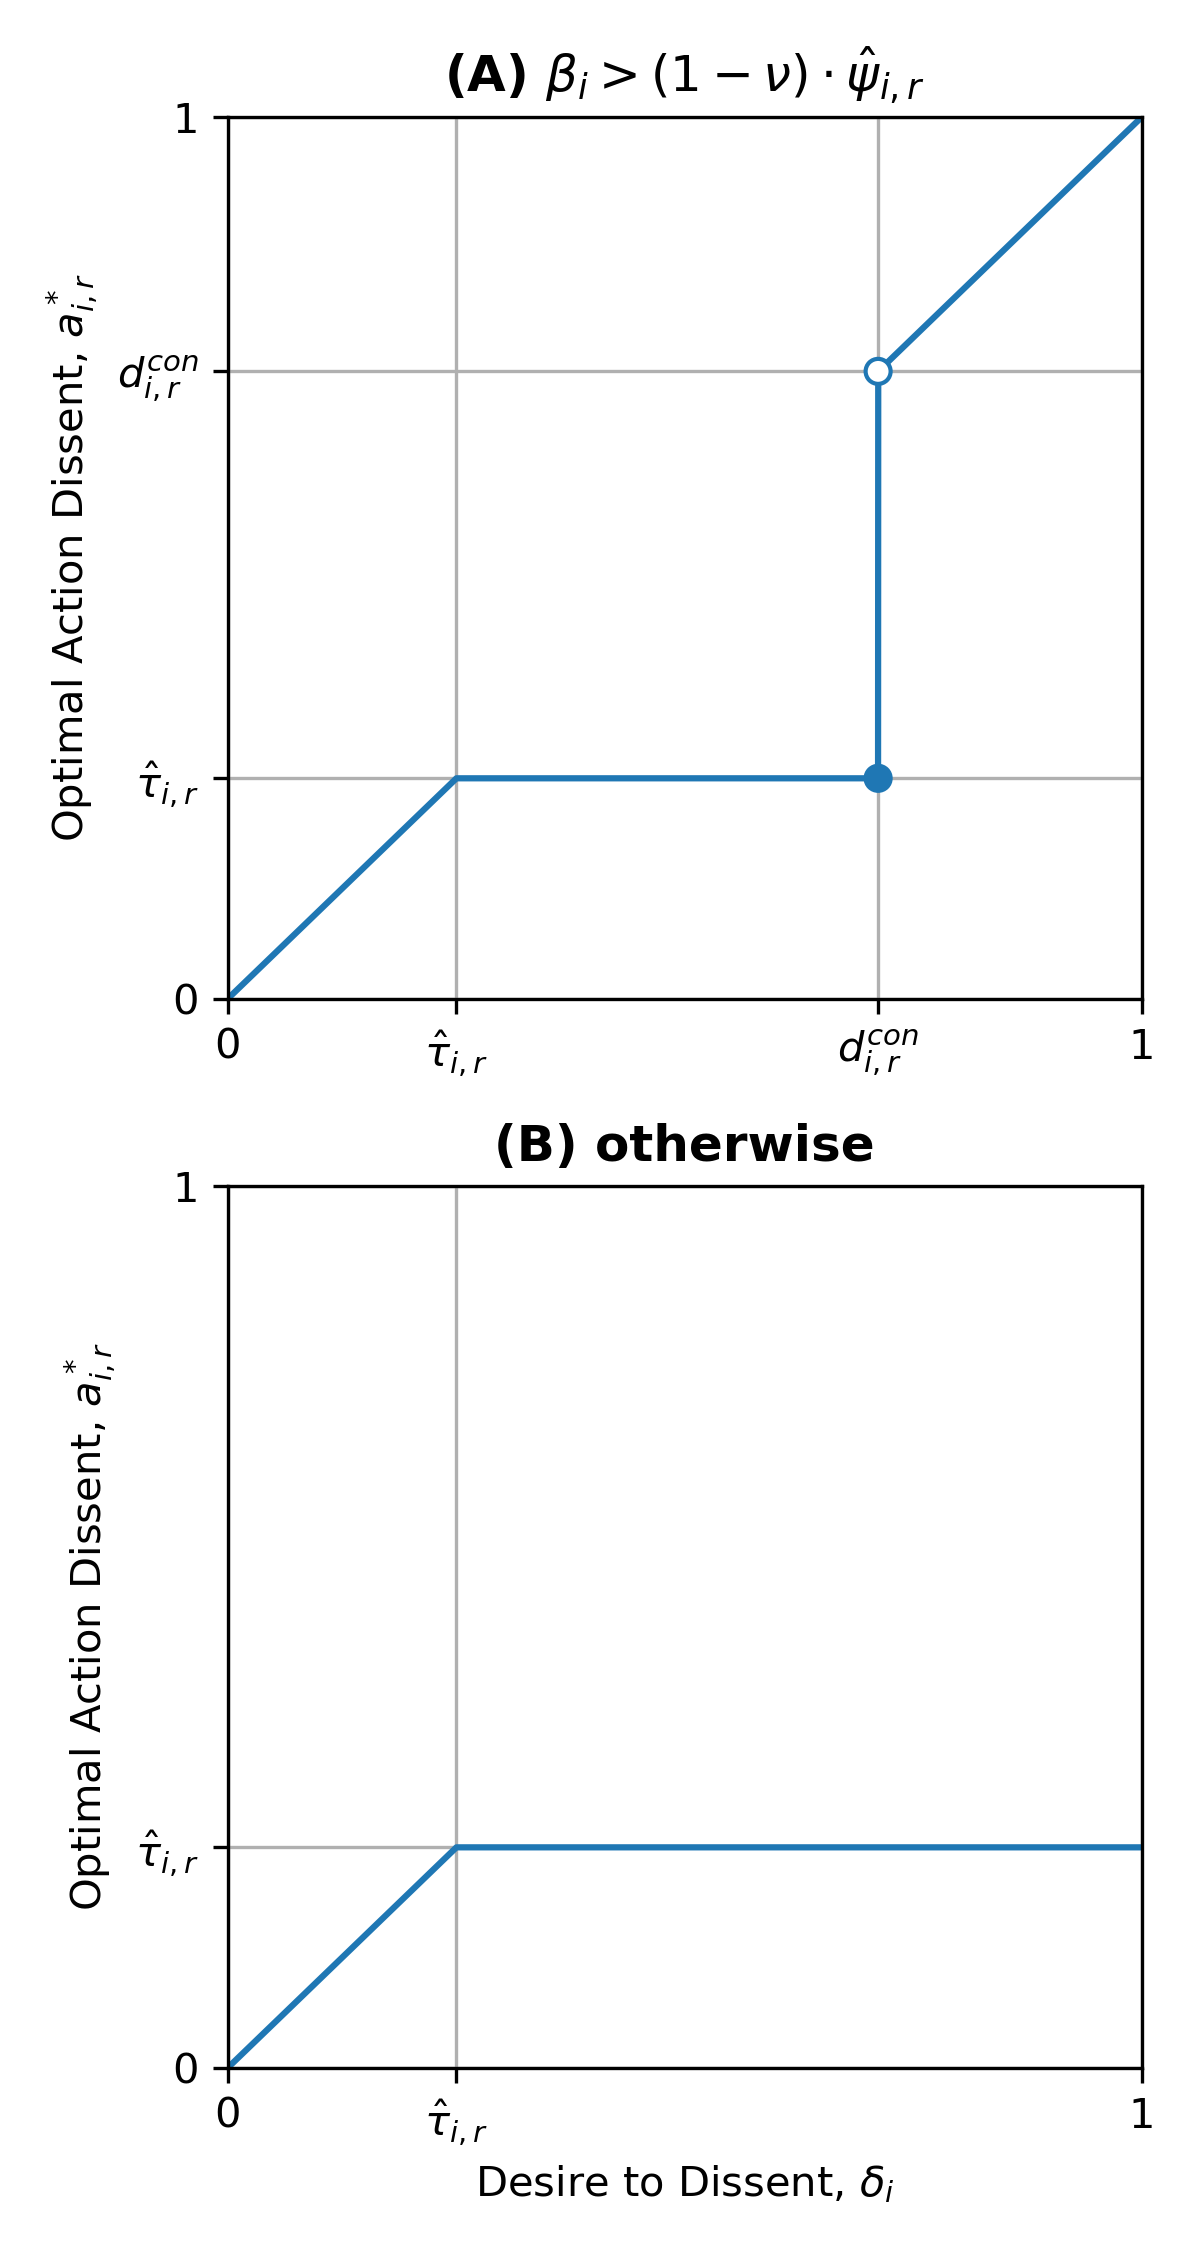
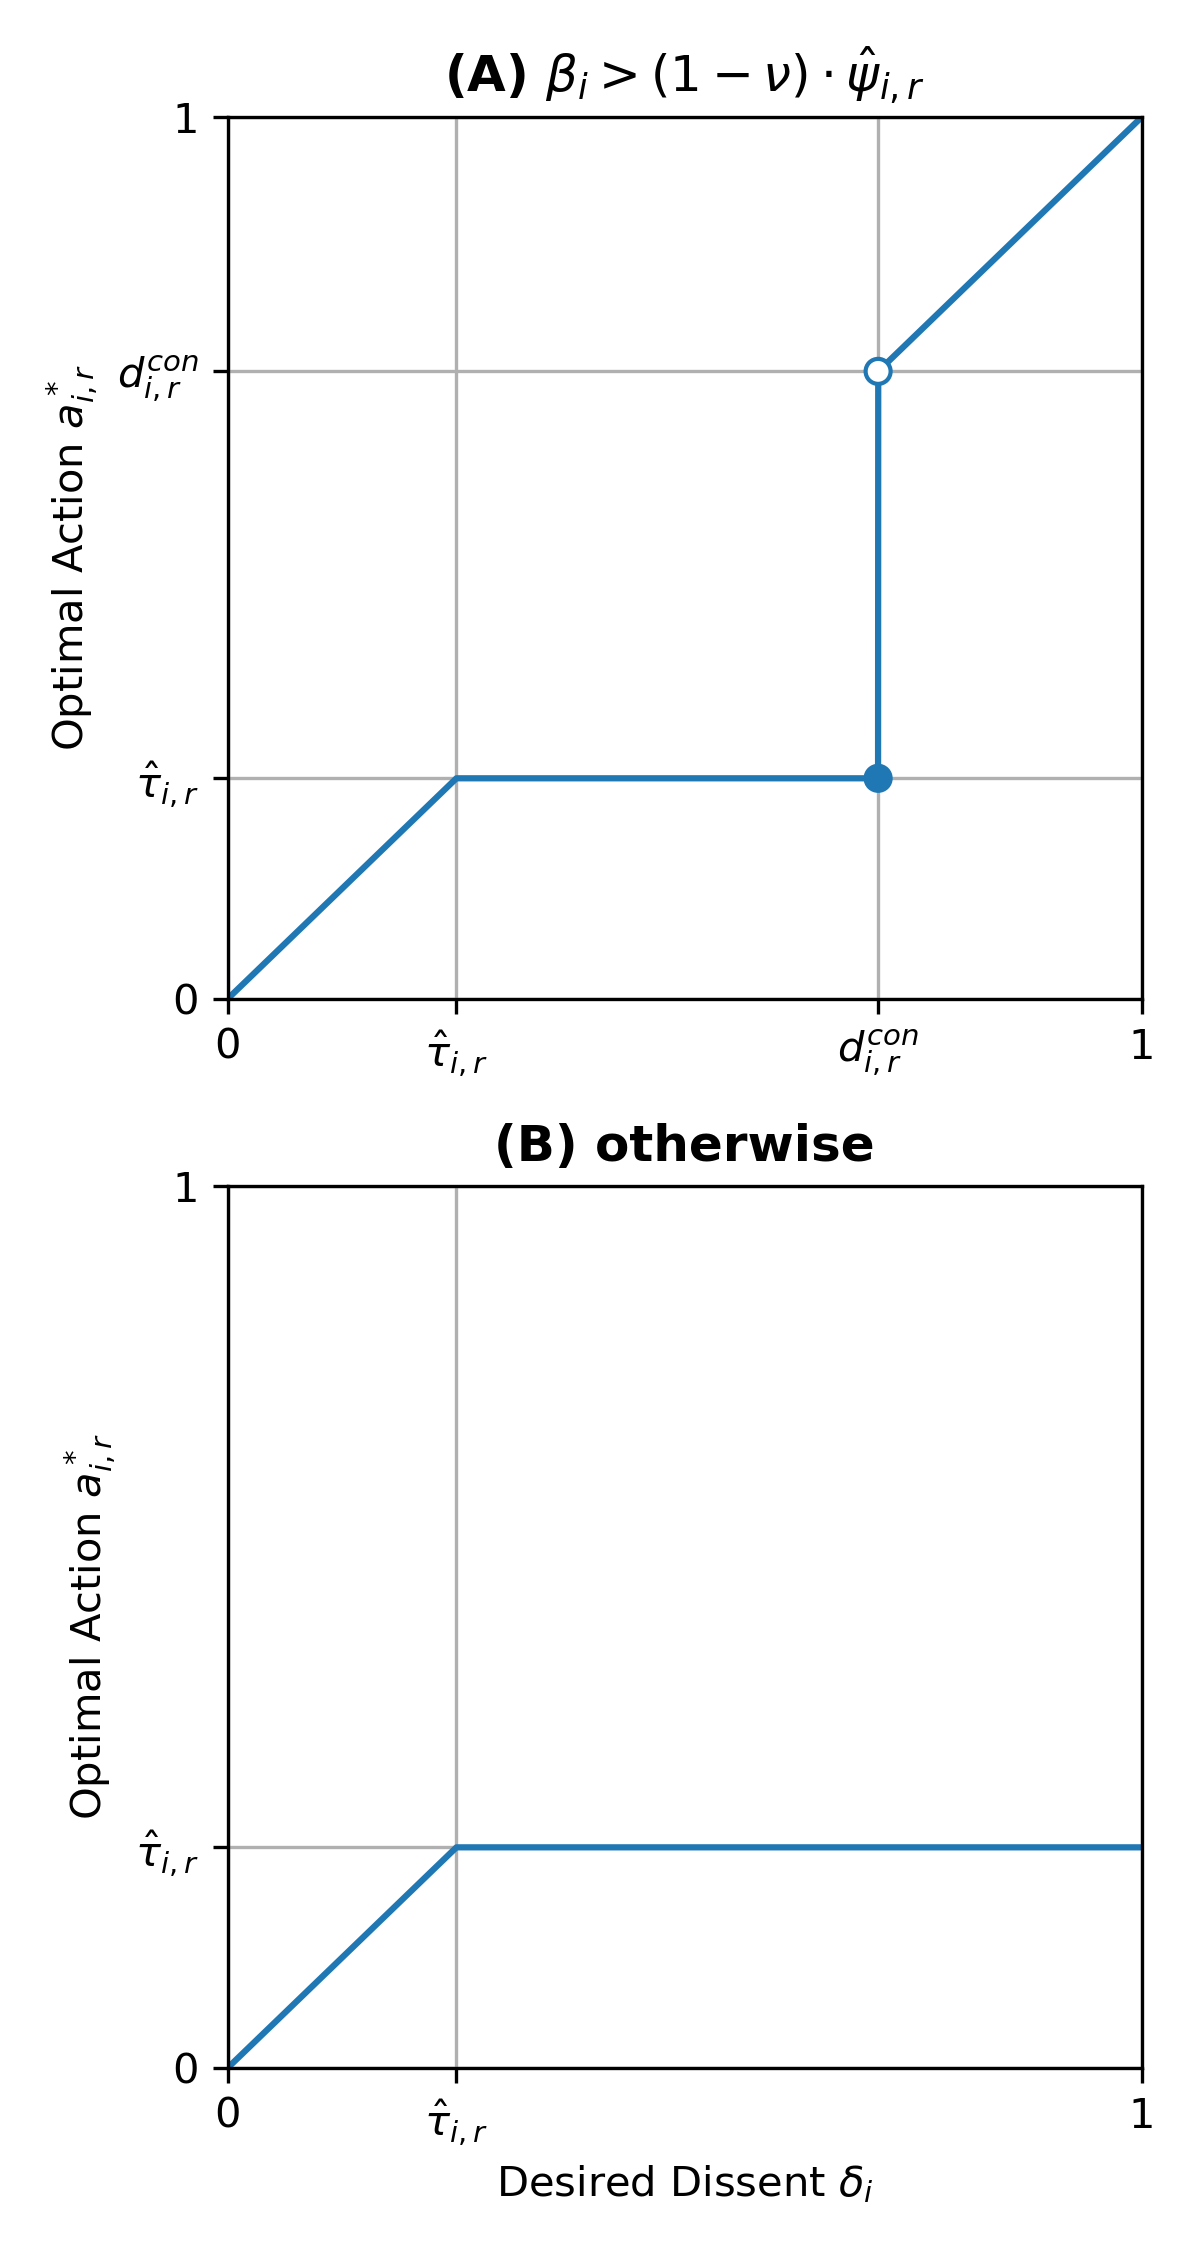
Transposed the phase diagram figure for easier interpretation, plus minor label updates

Changed region(s): [[0.0308, 0.1244, 0.0925, 0.3733], [0.4008, 0.9644, 0.74, 0.9956], [0.0617, 0.5911, 0.0925, 0.84]]

diff --git a/code/opt_action.py b/code/opt_action.py
@@ -3,7 +3,7 @@
 # Authors:  Joshua J. Daymude (jdaymude@asu.edu).
 
 """
-opt_action: Calculates and plots an individual's optimal action dissent and
+opt_action: Calculates and plots an individual's optimal action and
 corresponding utility as a function of their own desired dissent and boldness
 and noisy estimates of the authority's tolerance and severity.
 """
@@ -13,11 +13,39 @@ import numpy as np
 import os.path as osp
 
 
+def dcon(beta, nu, tau, psi):
+    """
+    Computes the critical point between (full) self-censorship and defiance
+    under constant punishment.
+
+    :param beta: the individual's float boldness (> 0)
+    :param nu: the authority's float surveillance (in [0,1])
+    :param tau: the authority's float tolerance (in [0,1])
+    :param psi: the authority's float punishment severity (> 0)
+    :returns: the float critical point for constant punishment
+    """
+    return (beta * tau + nu * psi) / (beta - (1 - nu) * psi)
+
+
+def dlin(beta, nu, tau, psi):
+    """
+    Computes the critical point between self-censorship and defiance as well as
+    the level of self-censorship enacted under linear punishment.
+
+    :param beta: the individual's float boldness (> 0)
+    :param nu: the authority's float surveillance (in [0,1])
+    :param tau: the authority's float tolerance (in [0,1])
+    :param psi: the authority's float punishment severity (> 0)
+    :returns: the float critical point for linear punishment
+    """
+    return (tau + (beta - nu * psi) / ((1 - nu) * psi)) / 2 if nu < 1 else 0
+
+
 def opt_action(delta, beta, nu, pi, tau, psi):
     """
-    Computes an individual's optimal action dissent as a function of their
-    parameters, the authority's parameters, and their noisy estimates of the
-    authority's tolerance and severity.
+    Computes an individual's optimal action as a function of their parameters,
+    the authority's parameters, and their noisy estimates of the authority's
+    tolerance and severity.
 
     :param delta: the individual's float desire to dissent (in [0,1])
     :param beta: the individual's float boldness (> 0)
@@ -25,32 +53,32 @@ def opt_action(delta, beta, nu, pi, tau, psi):
     :param pi: 'constant' or 'linear' punishment
     :param tau: the authority's float tolerance (in [0,1])
     :param psi: the authority's float punishment severity (> 0)
-    :returns: the individual's float optimal action dissent (in [0,delta])
+    :returns: the individual's float optimal action (in [0,delta])
     """
     assert pi in ['constant', 'linear'], f'ERROR: Unrecognized punishment function \"{pi}\"'
 
     if pi == 'constant':
         # Compliant/defiant individuals act = desire; the rest self-censor.
-        dcon = (beta * tau + nu * psi) / (beta - (1 - nu) * psi)
-        if delta <= tau or (beta > (1 - nu) * psi and delta > dcon):
+        d = dcon(beta, nu, tau, psi)
+        if delta <= tau or (beta > (1 - nu) * psi and delta > d):
             return delta
         else:
             return tau
     elif pi == 'linear':
         # If the authority's surveillance is perfect, we simply compare the
         # individual's boldness to the authority's severity.
-        dlin = (tau + (beta - nu * psi) / ((1 - nu) * psi)) / 2 if nu < 1 else 0
-        if delta <= tau or (nu == 1 and beta >= psi) or (nu < 1 and delta <= dlin):
+        d = dlin(beta, nu, tau, psi)
+        if delta <= tau or (nu == 1 and beta >= psi) or (nu < 1 and delta <= d):
             return delta
-        elif (nu == 1 and beta < psi) or (nu < 1 and tau >= dlin):
+        elif (nu == 1 and beta < psi) or (nu < 1 and tau >= d):
             return tau
         else:
-            return dlin
+            return d
 
 
 def plot_opt_action(ax, beta, nu, pi, tau, psi, color='tab:blue'):
     """
-    Plot an individual's optimal action dissent vs. their desired dissent.
+    Plot an individual's optimal action vs. their desired dissent.
 
     :param ax: a matplotlib.Axes object to plot on
     :param beta: the individual's float boldness (> 0)
@@ -60,7 +88,7 @@ def plot_opt_action(ax, beta, nu, pi, tau, psi, color='tab:blue'):
     :param psi: the authority's float punishment severity (> 0)
     :param color: any color recognized by matplotlib
     """
-    # Evaluate the individual's optimal action dissent over a range of desires.
+    # Evaluate the individual's optimal action over a range of desires.
     deltas = np.linspace(0, 1, 10000)
     acts = np.array([opt_action(delta, beta, nu, pi, tau, psi) for delta in deltas])
     ax.plot(deltas, acts, c=color)
@@ -73,16 +101,16 @@ def plot_opt_action(ax, beta, nu, pi, tau, psi, color='tab:blue'):
                    yticklabels=['0', r'$\hat{\tau}_{i,r}$', '1'])
         else:
             # Visualize the discontinuity where defiance kicks in.
-            dcon = (beta * tau + nu * psi) / (beta - (1 - nu) * psi)
-            ax.scatter([dcon, dcon], [tau, dcon], c=[color, 'white'],
-                       edgecolor=color, zorder=3)
-            ax.set(xticks=[0, tau, dcon, 1], yticks=[0, tau, dcon, 1],
+            d = dcon(beta, nu, tau, psi)
+            ax.scatter([d, d], [tau, d], c=[color, 'white'], edgecolor=color,
+                       zorder=3)
+            ax.set(xticks=[0, tau, d, 1], yticks=[0, tau, d, 1],
                    xticklabels=['0', r'$\hat{\tau}_{i,r}$', r'$d_{i,r}^{con}$', '1'],
                    yticklabels=['0', r'$\hat{\tau}_{i,r}$', r'$d_{i,r}^{con}$', '1'])
     elif pi == 'linear':
-        dlin = (tau + (beta - nu * psi) / ((1 - nu) * psi)) / 2 if nu < 1 else 0
-        if nu < 1 and dlin > tau:
-            ax.set(xticks=[0, tau, dlin, 1], yticks=[0, tau, dlin, 1],
+        d = dlin(beta, nu, tau, psi)
+        if nu < 1 and d > tau:
+            ax.set(xticks=[0, tau, d, 1], yticks=[0, tau, d, 1],
                    xticklabels=['0', r'$\hat{\tau}_{i,r}$', r'$d_{i,r}^{lin}$', '1'],
                    yticklabels=['0', r'$\hat{\tau}_{i,r}$', r'$d_{i,r}^{lin}$', '1'])
         else:
@@ -99,17 +127,17 @@ if __name__ == "__main__":
     fig, ax = plt.subplots(2, 1, figsize=(4, 7.5), dpi=300, facecolor='white',
                            tight_layout=True)
 
-    # Plot optimal action dissent and utility when defiance exists.
+    # Plot optimal action and utility when defiance exists.
     plot_opt_action(ax[0], beta=1, nu=0.2, pi='constant', tau=0.25, psi=0.6)
     ax[0].set_title(r'(A) $\beta_i > (1 - \nu) \cdot \hat{\psi}_{i,r}$',
                     weight='bold')
-    ax[0].set(ylabel=r'Optimal Action Dissent, $a_{i,r}^*$')
+    ax[0].set(ylabel=r'Optimal Action $a_{i,r}^*$')
 
-    # Plot optimal action dissent and utility when defiance does not exist.
+    # Plot optimal action and utility when defiance does not exist.
     plot_opt_action(ax[1], beta=1, nu=0.2, pi='constant', tau=0.25, psi=2)
     ax[1].set_title(r'(B) otherwise', weight='bold')
-    ax[1].set(xlabel=r'Desire to Dissent, $\delta_i$',
-              ylabel=r'Optimal Action Dissent, $a_{i,r}^*$')
+    ax[1].set(xlabel=r'Desired Dissent $\delta_i$',
+              ylabel=r'Optimal Action $a_{i,r}^*$')
 
     fig.savefig(osp.join('..', 'figs', 'opt_action_constant.png'))
 
@@ -117,22 +145,22 @@ if __name__ == "__main__":
     fig, ax = plt.subplots(1, 3, figsize=(10.75, 4), dpi=300, facecolor='white',
                            tight_layout=True)
 
-    # Plot optimal action dissent and utility when v < 1 and defiance exists.
+    # Plot optimal action and utility when v < 1 and defiance exists.
     plot_opt_action(ax[0], beta=1, nu=0.2, pi='linear', tau=0.25, psi=1)
     ax[0].set_title(r'(A) $\nu < 1$ and $\hat{\tau}_{i,r} < d_{i,r}^{lin}$',
                     weight='bold')
-    ax[0].set(xlabel=r'Desire to Dissent, $\delta_i$',
-              ylabel=r'Optimal Action Dissent, $a_{i,r}^*$')
+    ax[0].set(xlabel=r'Desired Dissent $\delta_i$',
+              ylabel=r'Optimal Action $a_{i,r}^*$')
 
-    # Plot optimal action dissent and utility when v = 1 and beta >= s.
+    # Plot optimal action and utility when v = 1 and beta >= s.
     plot_opt_action(ax[1], beta=1, nu=1, pi='linear', tau=0.25, psi=0.6)
     ax[1].set_title(r'(B) $\nu = 1$ and $\beta_i \geq \hat{\psi}_{i,r}$',
                     weight='bold')
-    ax[1].set(xlabel=r'Desire to Dissent, $\delta_i$')
+    ax[1].set(xlabel=r'Desired Dissent $\delta_i$')
 
-    # Plot optimal action dissent and utility in the remaining case.
+    # Plot optimal action and utility in the remaining case.
     plot_opt_action(ax[2], beta=1, nu=1, pi='linear', tau=0.25, psi=2)
     ax[2].set_title(r'(C) otherwise', weight='bold')
-    ax[2].set(xlabel=r'Desire to Dissent, $\delta_i$')
+    ax[2].set(xlabel=r'Desired Dissent $\delta_i$')
 
     fig.savefig(osp.join('..', 'figs', 'opt_action_linear.png'))

diff --git a/code/phase_diagram.py b/code/phase_diagram.py
@@ -8,7 +8,7 @@ compliance, self-censorship, and defiance as a function of an individual's
 desire to dissent vs. the model's other parameters.
 """
 
-from opt_action import opt_action
+from opt_action import dcon, dlin, opt_action
 
 import matplotlib.pyplot as plt
 import numpy as np
@@ -31,18 +31,18 @@ def phase(delta, beta, nu, pi, tau, psi):
     if delta <= tau:  # Compliance.
         return 0
     elif opt_act >= tau and opt_act < delta:  # Self-censorship.
-        return 0.25 + 0.75 * ((opt_act - tau) / (delta - tau))
+        return 0.5 + 0.5 * ((opt_act - tau) / (delta - tau))
     else:  # Defiance.
         return 1
 
 
-def plot_phase_diagram(ax, yparam, beta, nu, pi, tau, psi):
+def plot_phase_diagram(ax, xparam, beta, nu, pi, tau, psi):
     """
     Plot a phase diagram of compliance, self-censorship, and defiance in the
     space of desires to dissent vs. the given parameter.
 
     :param ax: a matplotlib.Axes object to plot on
-    :param yparam: the y-axis parameter, from ['beta', 'nu', 'tau', 'psi']
+    :param xparam: the x-axis parameter, from ['beta', 'nu', 'tau', 'psi']
     :param beta: the individual's float boldness (> 0)
     :param nu: the authority's float surveillance (in [0,1])
     :param pi: 'constant' or 'linear' punishment
@@ -50,36 +50,48 @@ def plot_phase_diagram(ax, yparam, beta, nu, pi, tau, psi):
     :param psi: the authority's float punishment severity (> 0)
     """
     # Set an appropriate range for the y-axis parameter.
-    ylim = 3 if yparam in ['beta', 'psi'] else 1
+    xlim = 2.5 if xparam in ['beta', 'psi'] else 1
 
     # Create an array representing the 2D parameter space.
-    size = 1000
+    size = 1001  # Avoids divide-by-zero visual artifacts for dcon/dlin.
     phases = np.zeros((size, size))
+    xvals = np.linspace(0, xlim, size)
     deltas = np.linspace(0, 1, size)
-    yvals = np.linspace(0, ylim, size)
 
     # Compute the individual's optimal action dissent for each point in space,
     # then convert it to a compliant, self-censoring, or defiant phase.
-    for i, yval in enumerate(yvals):
-        for j, delta in enumerate(deltas):
-            if yparam == 'beta':
-                phases[i, j] = phase(delta, yval, nu, pi, tau, psi)
-            elif yparam == 'nu':
-                phases[i, j] = phase(delta, beta, yval, pi, tau, psi)
-            elif yparam == 'tau':
-                phases[i, j] = phase(delta, beta, nu, pi, yval, psi)
-            elif yparam == 'psi':
-                phases[i, j] = phase(delta, beta, nu, pi, tau, yval)
+    for i, delta in enumerate(deltas):
+        for j, xval in enumerate(xvals):
+            if xparam == 'beta':
+                phases[i, j] = phase(delta, xval, nu, pi, tau, psi)
+            elif xparam == 'nu':
+                phases[i, j] = phase(delta, beta, xval, pi, tau, psi)
+            elif xparam == 'tau':
+                phases[i, j] = phase(delta, beta, nu, pi, xval, psi)
+            elif xparam == 'psi':
+                phases[i, j] = phase(delta, beta, nu, pi, tau, xval)
             else:
-                assert(False, f'ERROR: Unrecognized y-parameter \'{yparam}\'')
+                assert False, f'ERROR: Unrecognized parameter \'{xparam}\''
 
     # Plot the phases as colors.
-    colors = [(0, 'orange'), (0.25, 'red'), (1, 'darkred')]
+    colors = [(0, 'orange'), (0.5, 'red'), (1, 'darkred')]
     cmap = plt.cm.colors.LinearSegmentedColormap.from_list('cphase', colors)
-    im = ax.pcolormesh(deltas, yvals, phases, cmap=cmap, shading='auto')
+    im = ax.pcolormesh(xvals, deltas, phases, cmap=cmap, shading='auto')
+
+    # Plot dcon or dlin, the critical points, over the heatmap.
+    dfun = dcon if pi == 'constant' else dlin
+    if xparam == 'beta':
+        ds = [dfun(xval, nu, tau, psi) for xval in xvals]
+    elif xparam == 'nu':
+        ds = [dfun(beta, xval, tau, psi) for xval in xvals]
+    elif xparam == 'tau':
+        ds = [dfun(beta, nu, xval, psi) for xval in xvals]
+    elif xparam == 'psi':
+        ds = [dfun(beta, nu, tau, xval) for xval in xvals]
+    ax.plot(xvals, ds, color='white')
 
     # Set axes information that is common across plots.
-    ax.set(xlim=[0, 1], ylim=[0, ylim])
+    ax.set(xlim=[0, xlim], ylim=[0, 1])
     ax.set_box_aspect(1)
 
     return im
@@ -103,19 +115,19 @@ if __name__ == "__main__":
         im = plot_phase_diagram(ax[1, i], param, beta=1, nu=0.5, pi='linear',
                                 tau=0.25, psi=1.5)
         # Set axes information.
-        ax[0, i].set_title(label, weight='bold')
-        ax[1, i].set(xlabel=r'Desire to Dissent, $\delta_i$')
+        ax[1, i].set_xlabel(label, weight='bold', fontsize='large')
         if i == 0:
             ax[0, i].set(ylabel=r'Constant Punishment $\pi$')
             ax[1, i].set(ylabel=r'Linear Punishment $\pi$')
-        if params[i] != 'tau':
-            ax[1, i].set_xticks([0, 0.25, 1])
-            ax[1, i].set_xticklabels(['0', r'$\tau$', '1'])
+        if param != 'tau':
+            ax[0, i].set(yticks=[0, 0.25, 1], yticklabels=['0', r'$\tau$', '1'])
+            ax[1, i].set(yticks=[0, 0.25, 1], yticklabels=['0', r'$\tau$', '1'])
+    fig.supylabel(r'Desired Dissent $\delta_i$')
 
     # Create and configure a colorbar shared by all axes.
-    cbar = fig.colorbar(im, ax=ax.ravel().tolist())
+    cbar = fig.colorbar(im, ax=ax, pad=0.02)
     cbar.set_label('')
-    cbar.set_ticks([0, 0.25, 1])
-    cbar.set_ticklabels(['Compliant', 'Self-Censoring', 'Defiant'])
+    cbar.set_ticks([0, 0.5, 1])
+    cbar.set_ticklabels(['Compliant', 'Fully Self-\nCensoring', 'Defiant'])
 
     fig.savefig(osp.join('..', 'figs', 'phase_diagram.png'))
